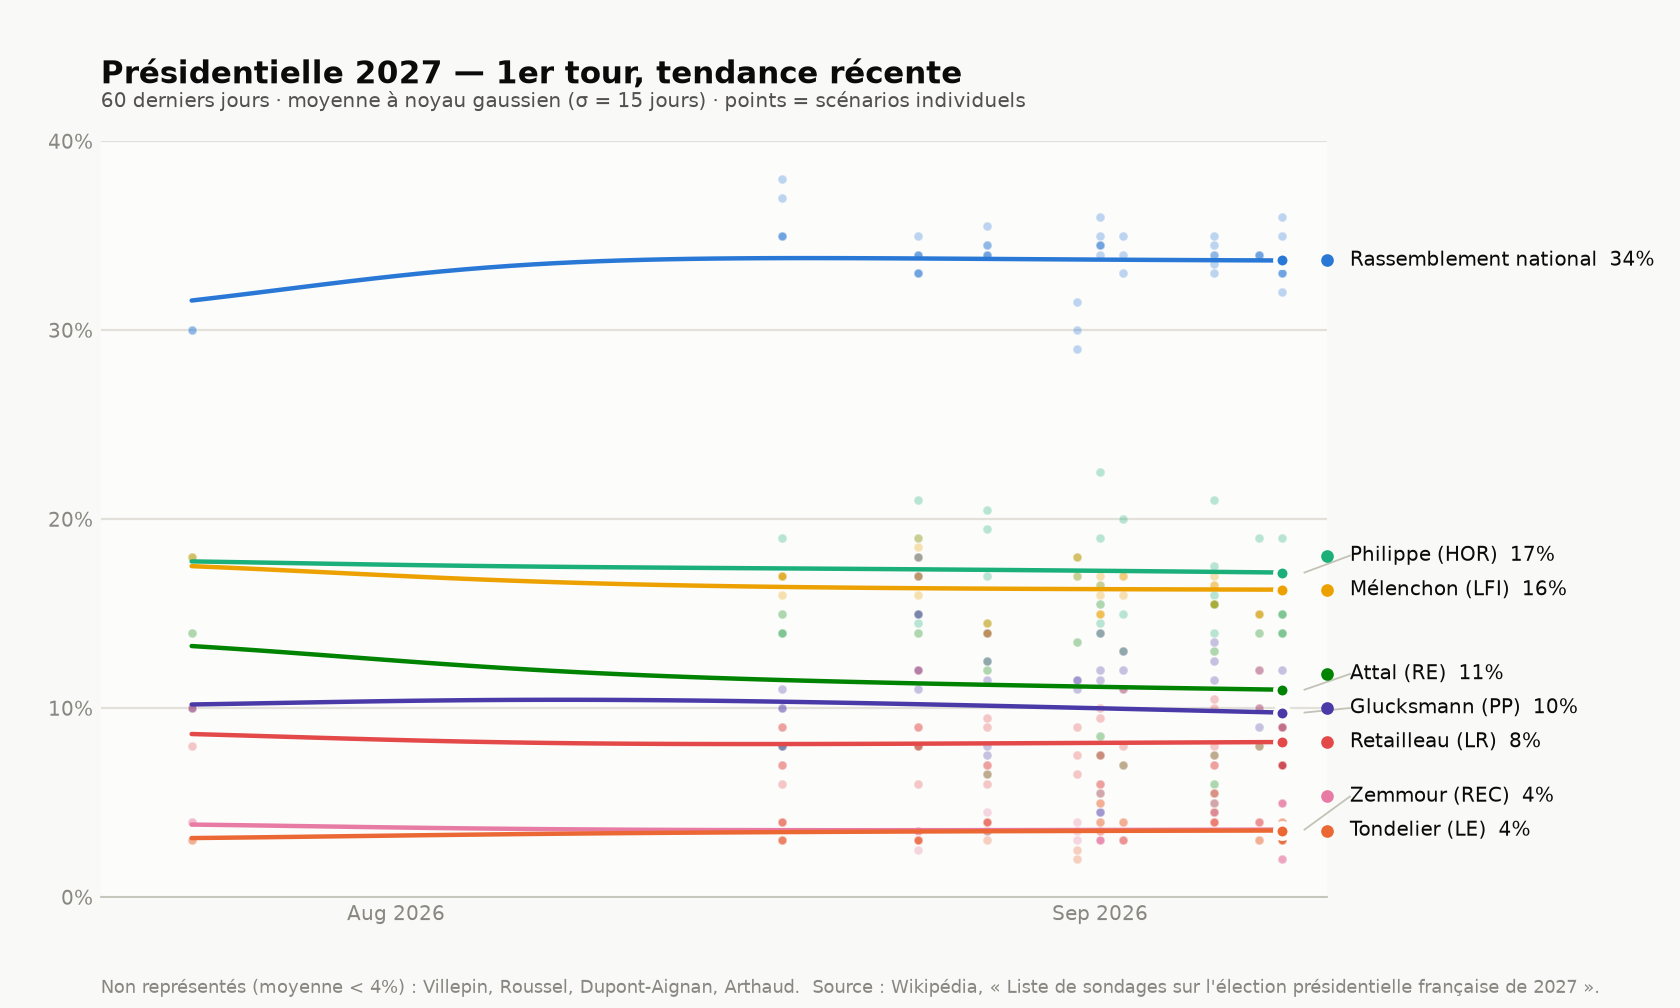
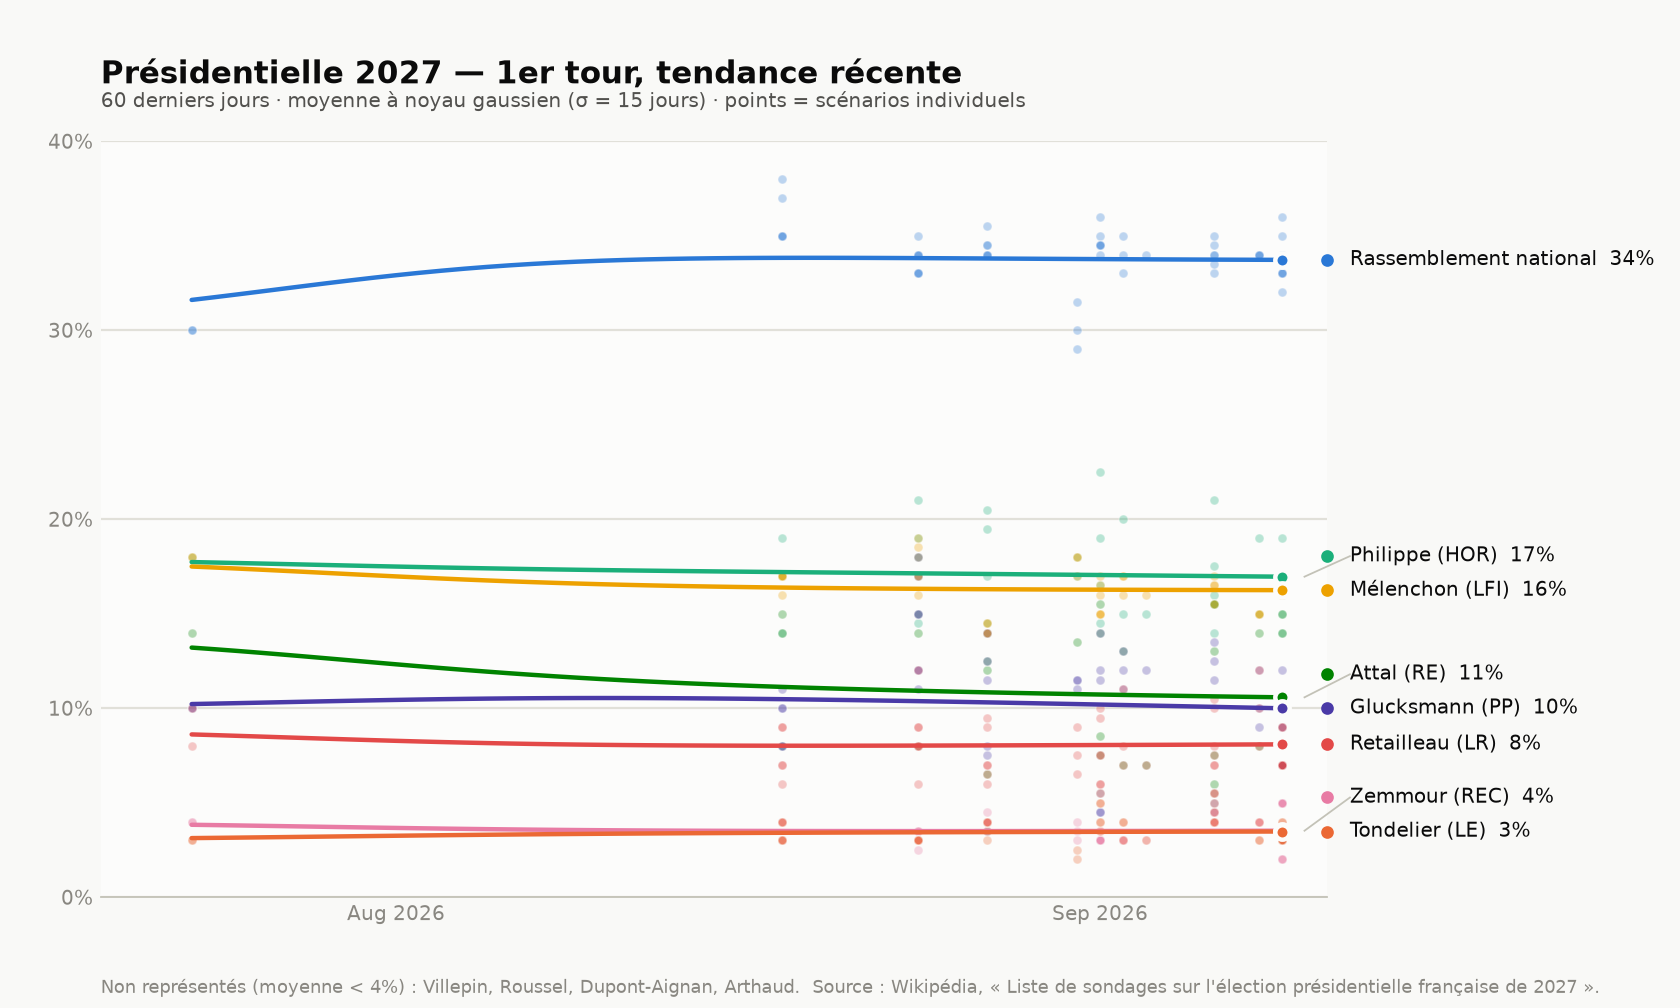
Add OpinionWay 2-4 September 2026 poll (first round)
New poll commissioned by Sébastien Bonnal's campaign (n=1034), single
scenario: Mélenchon 16, RN (Le Pen) 34, Philippe 15, Attal 12,
Retailleau 7, Glucksmann 7, Roussel 2, Tondelier 3, Autre 0.5
(Bonnal, reported as <1).

parse_polls.py: clean_text now strips <ref>...</ref> footnote markers
(via the existing strip_refs helper, previously only used for header
cells) so a pollster-name ref like OpinionWay's Bonnal-commissioned-poll
annotation doesn't leak into the pollster field.

Regenerated first-round charts: france-first_round.png,
france-first_round_pollsters.png, france-first_round_recent.png.
No second-round changes this pull.

diff --git a/parse_polls.py b/parse_polls.py
@@ -65,6 +65,7 @@ def strip_refs(s):
     return s
 
 def clean_text(s):
+    s = strip_refs(s)
     s = re.sub(r'\{\{blanc\|([^}]*)\}\}', r'\1', s)
     s = re.sub(r"'''(.*?)'''", r'\1', s)
     s = re.sub(r'\{\{formatnum[:|]([^}]*)\}\}', r'\1', s, flags=re.IGNORECASE)

diff --git a/README.md b/README.md
@@ -61,7 +61,7 @@ python3 parse_polls.py /tmp/frelec_raw.wiki polls_2027_second_round.csv --second
 First-round voting-intention polls, January–September 2026, scraped from the French
 Wikipedia article
 ["Liste de sondages sur l'élection présidentielle française de 2027"](https://fr.wikipedia.org/wiki/Liste_de_sondages_sur_l%27%C3%A9lection_pr%C3%A9sidentielle_fran%C3%A7aise_de_2027)
-(pulled 2026-09-15).
+(pulled 2026-09-16).
 
 Starting with the 7–8 July 2026 polls (Wikipedia's "Second semestre 2026"
 sub-table), the table switched the RN column from a hypothetical "candidate"
@@ -104,7 +104,7 @@ included in this CSV — ask if you want those pulled too.
 
 Second-round (runoff) hypothetical match-up polls, January 2024 – September 2026,
 scraped from the same Wikipedia page's "Sondages concernant le second tour"
-section (pulled 2026-09-15). Each subsection there ("Hypothèse X – Y") polls
+section (pulled 2026-09-16). Each subsection there ("Hypothèse X – Y") polls
 one specific pairing — Attal, Mélenchon, Philippe, Glucksmann and Retailleau
 each against the RN candidate (Bardella through early 2026, Le Pen from her
 2026-07-07 candidacy onward), plus a single early Ruffin–Le Pen poll and, from
